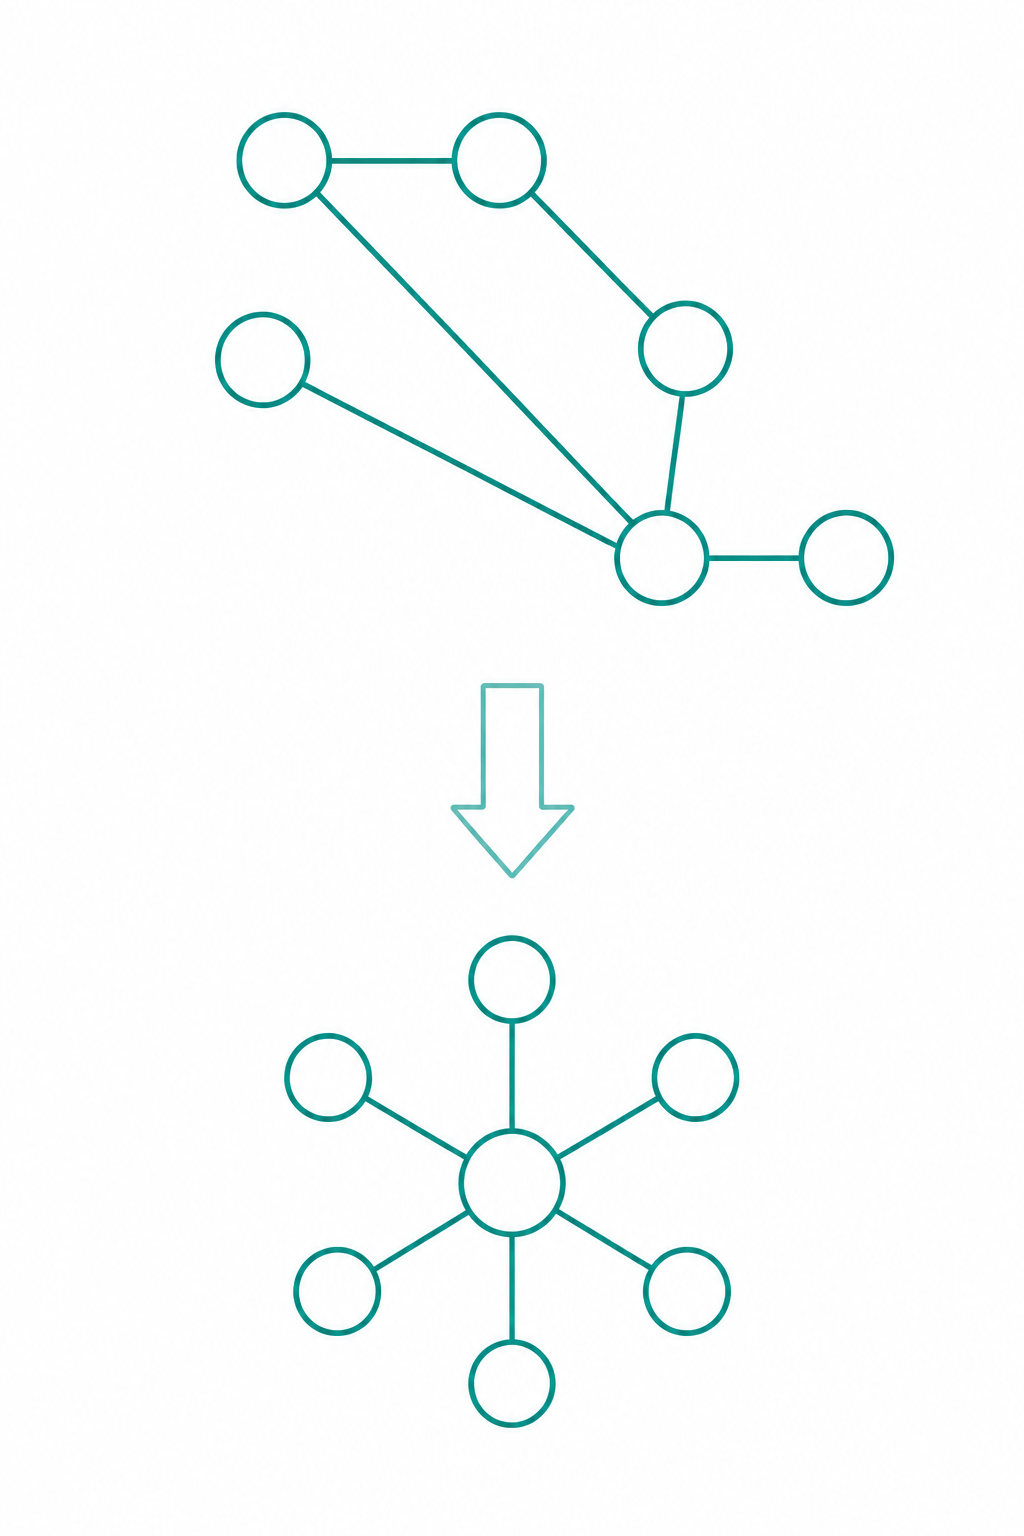
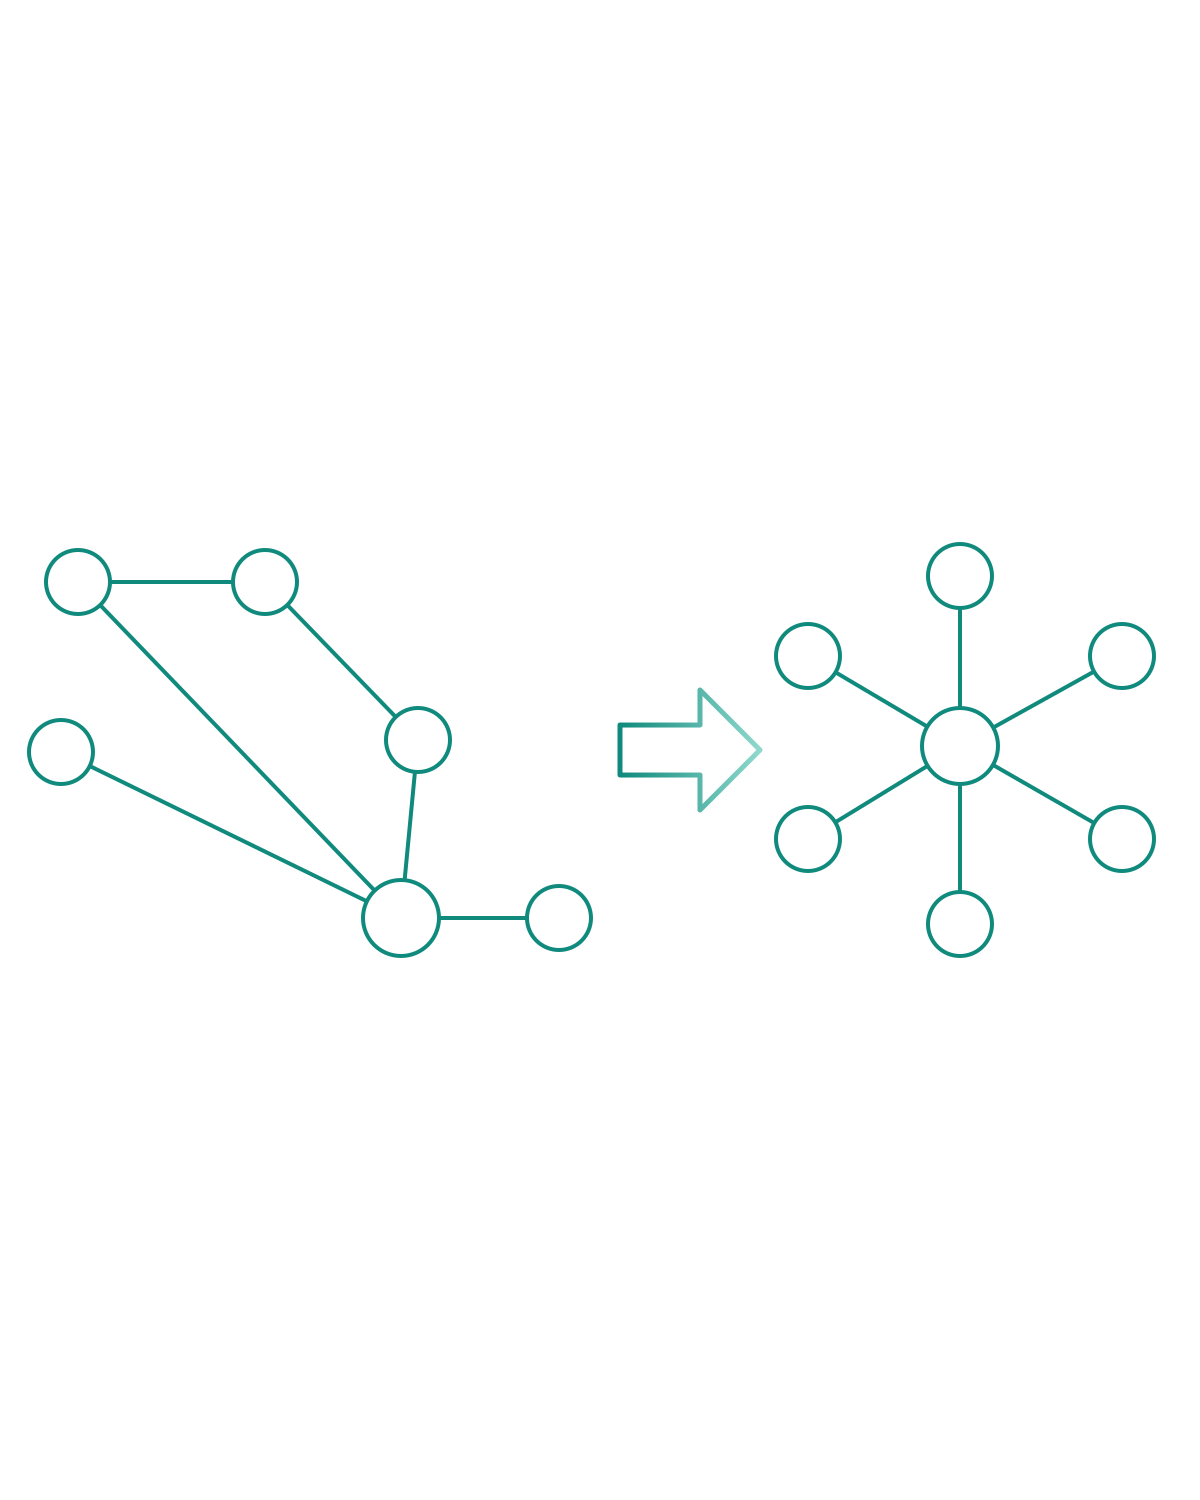
mesh-sat

diff --git a/src/main.tex b/src/main.tex
@@ -65,6 +65,17 @@
     \end{figure}
 \end{frame}
 
+\begin{frame}{Objetivo}
+    \begin{figure}
+        \centering
+        \includegraphics[
+            width=\linewidth,
+            height=0.9\textheight,
+            keepaspectratio
+        ]{mesh-vs-star.png}
+    \end{figure}
+\end{frame}
+
 \begin{frame}{Sumário}
 \tableofcontents
 \end{frame}
